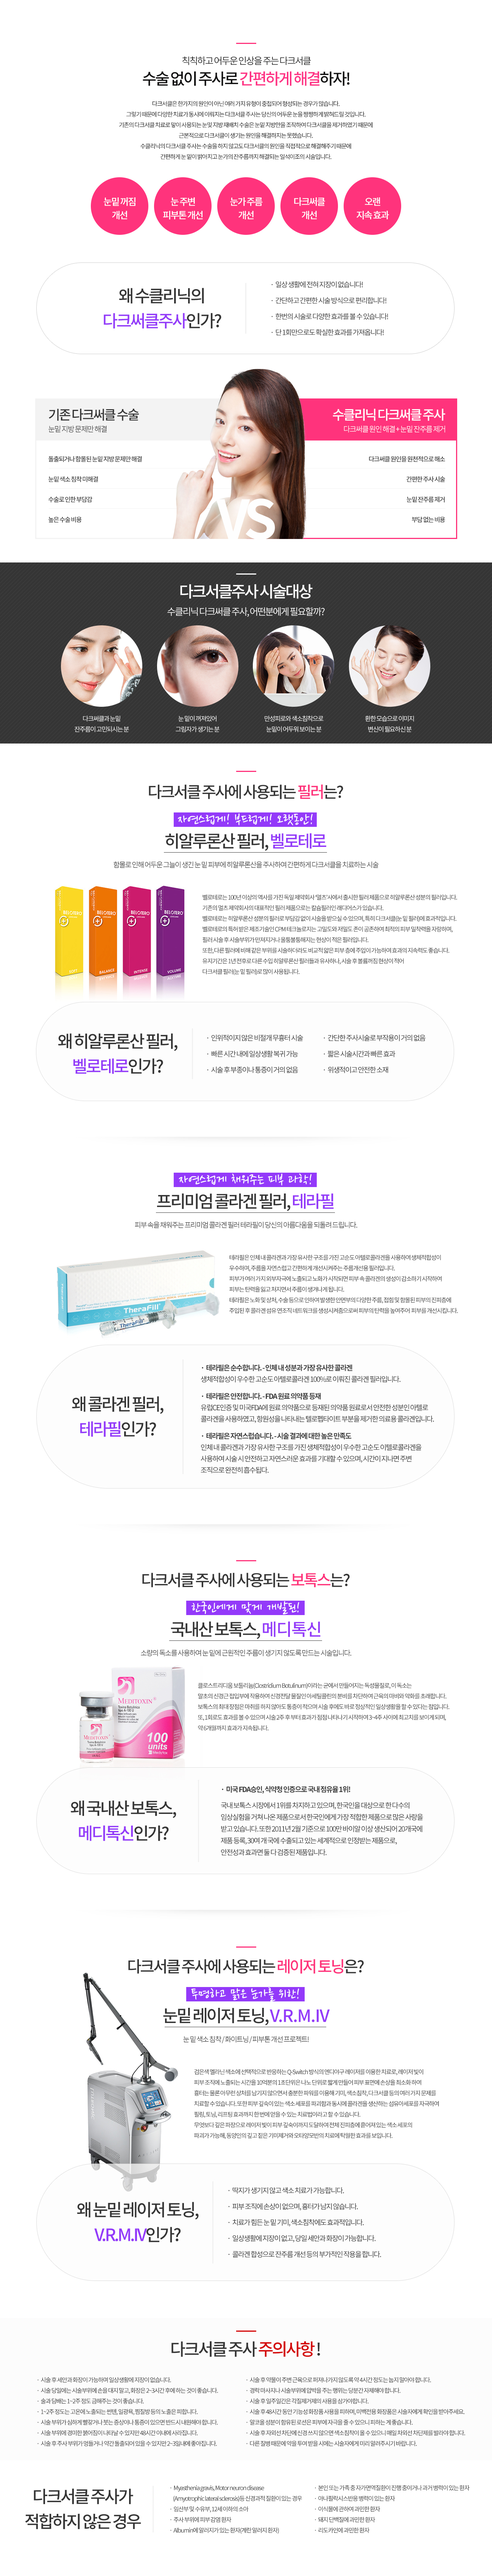
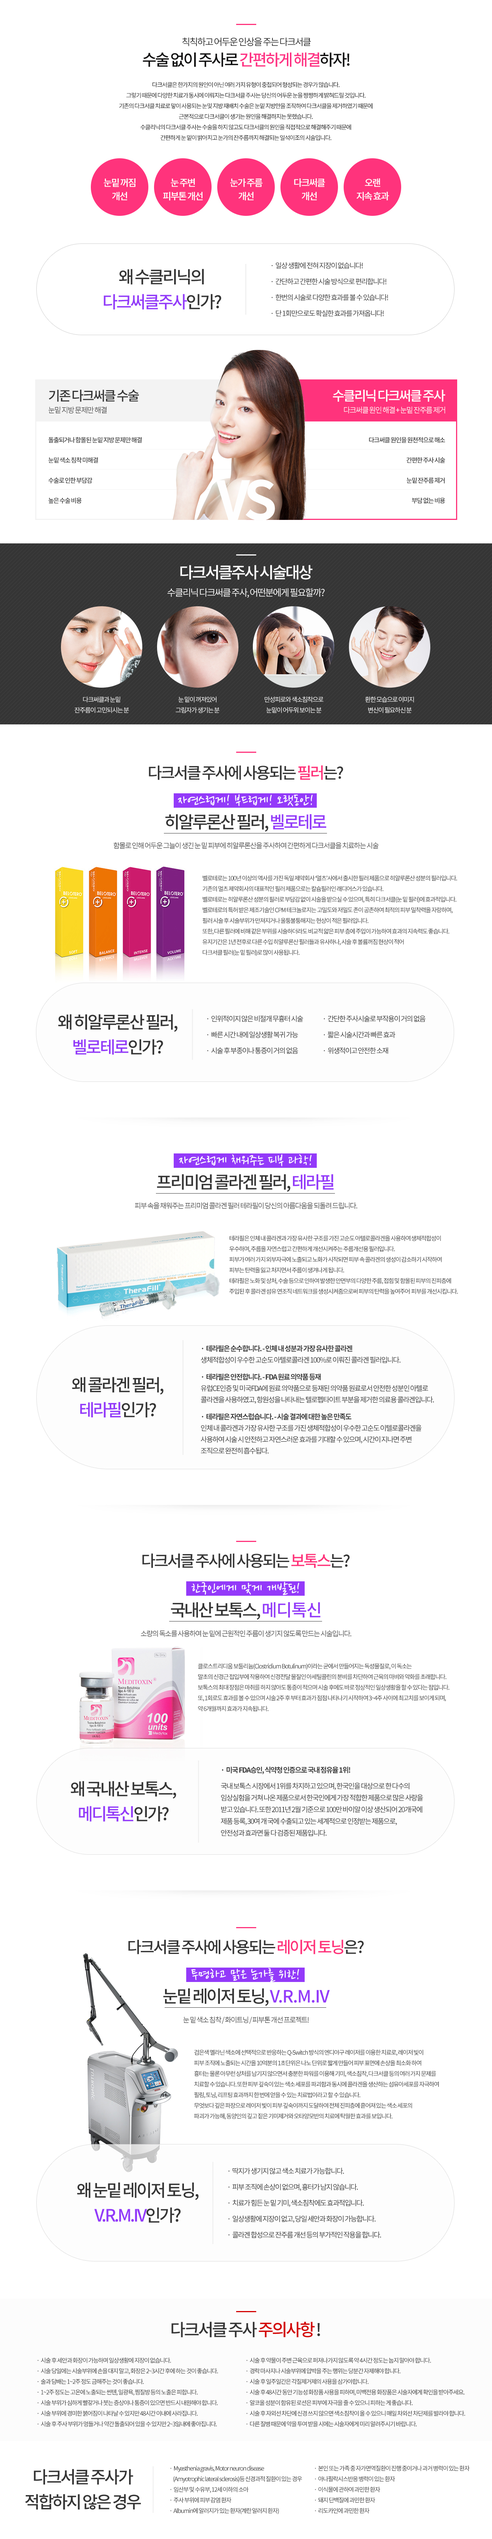
병원 둘러보기 페이지 추가

Changed region(s): [[0.0, 0.0, 1.0, 0.9975], [0.1846, 0.4987, 0.3077, 0.5611], [0.6769, 0.4052, 0.8, 0.4364]]

diff --git a/main/templates/intro/map.html b/main/templates/intro/map.html
@@ -6,15 +6,15 @@
 {% endblock %}
 
 {% block sub_title %}
-HOME > 병원 소개 > 오시는 길
+HOME > 병원소개 > 오시는 길
 {% endblock %}
 
 {% block main %}
-	<img src="{% static 'img/map/title.jpg' %}" class="img-responsive content-border1 paddingtop60">
+	<img src="{% static 'img/intro/map1.jpg' %}" class="img-responsive content-border1 paddingtop60">
 {% endblock %}
 
 {% block mainsm %}
-	<img src="{% static 'img/map/subtitle.jpg' %}" class="img-responsive content-border1 paddingtop30-xs">
+	<img src="{% static 'img/intro/map1s.jpg' %}" class="img-responsive content-border1 paddingtop30-xs">
 {% endblock %}
 
 {% block common %}
@@ -22,11 +22,11 @@ HOME > 병원 소개 > 오시는 길
 {% endblock %}
 
 {% block detail %}
-	<img src="{% static 'img/map/big.jpeg' %}" class="img-responsive content-border2">
+	<img src="{% static 'img/intro/map2.jpeg' %}" class="img-responsive content-border2">
 {% endblock %}
 
 {% block detailsm %}
-	<img src="{% static 'img/map/sm.jpeg' %}" class="img-responsive content-border2 paddingtop20-xs" style="margin: 10px;">
+	<img src="{% static 'img/intro/map2s.jpeg' %}" class="img-responsive content-border2 paddingtop20-xs" style="margin: 10px;">
 {% endblock %}
 
 
@@ -60,5 +60,6 @@ HOME > 병원 소개 > 오시는 길
 	  // 스크롤로 지도 확대/축소를 불가능하게 막습니다.
 	  map.setZoomable(false);
 	  map.setDraggable(false);
+	  activelist('#intro4', '#intro')
 	</script>
 	{% endblock javascript %}

diff --git a/main/templates/intro/clinic.html b/main/templates/intro/clinic.html
@@ -1,0 +1,35 @@
+{% extends "../detailpage.html" %}
+{% load staticfiles %}
+
+{% block semi_title %}
+병원 둘러보기
+{% endblock %}
+
+{% block sub_title %}
+HOME > 병원소개 > 병원 둘러보기
+{% endblock %}
+
+{% block main %}
+	<img src="{% static 'img/intro/clinic1.jpg' %}" class="img-responsive content-border1 paddingtop60">
+{% endblock %}
+
+{% block mainsm %}
+	<img src="{% static 'img/intro/clinic1s.jpg' %}" class="img-responsive content-border1 paddingtop30-xs">
+{% endblock %}
+
+
+{% block detail %}
+	<img src="{% static 'img/intro/clinic2.jpg' %}" class="img-responsive content-border2 paddingtop60">
+{% endblock %}
+
+{% block detailsm %}
+	<img src="{% static 'img/intro/clinic2.jpg' %}" class="img-responsive content-border2 paddingtop20-xs">
+{% endblock %}
+
+{% block javascript %}
+<script type="text/javascript">
+	$(document).ready(function(){
+		activelist('#intro3', '#intro')
+	});
+</script>
+{% endblock javascript %}

diff --git a/suclinic/templates/left.navbar.1.html b/suclinic/templates/left.navbar.1.html
@@ -27,9 +27,9 @@
 				<a href="#">병원소개<span class="caret"></span></a>
 			</li>
 			<ul class="sub-menu collapse" id="intro">
-				<li id="intro1">수클리닉 소개</li>
-				<li id="intro2">의료진 소개</li>
-				<li id="intro3">병원 둘러보기</li>
+				<li id="intro1"><a href="{% url 'main:intro' %}">수클리닉 소개</a></li>
+				<li id="intro2"><a href="{% url 'main:doctor' %}">의료진 소개</a></li>
+				<li id="intro3"><a href="{% url 'main:clinic' %}">병원 둘러보기</a></li>
 				<li id="intro4"><a href="{% url 'main:map' %}">오시는 길</a></li>
 			</ul>
 

diff --git a/static/css/style.css b/static/css/style.css
@@ -156,7 +156,10 @@ body {
     margin-top: 10px;
     padding-left: 0; } }
 #menu-content > li > a {
-  font-size: 11pt; }
+  font-size: 11pt;
+  font-weight: 400; }
+#menu-content ul a {
+  font-weight: 300; }
 
 @media screen and (max-width: 991px) {
   .left-navbar {

diff --git a/static/scss/_sidebar1.scss b/static/scss/_sidebar1.scss
@@ -186,7 +186,11 @@ body {
 	> li {
 		> a {
 			font-size: 11pt;
+			font-weight: 400;
 		}
+	}
+	ul a {
+		font-weight:300;
 	}
 }
 

diff --git a/main/templates/intro/intro.html b/main/templates/intro/intro.html
@@ -1,0 +1,3 @@
+{% extends "../detailpage.html" %}
+{% load staticfiles %}
+

diff --git a/main/templates/intro/doctor.html b/main/templates/intro/doctor.html
@@ -1,0 +1,2 @@
+{% extends "../detailpage.html" %}
+{% load staticfiles %}

diff --git a/main/urls.py b/main/urls.py
@@ -2,6 +2,11 @@ from django.conf.urls import url
 from . import views
 
 urlpatterns = [
+    url(r'^intro/$', views.intro, name="intro"),
+    url(r'^doctor/$', views.doctor, name="doctor"),
+    url(r'^clinic/$', views.clinic, name="clinic"),
+    url(r'^map/$', views.map, name="map"),
+
     # whitening #
     url(r'^whitening/$', views.whitening, name="whitening"),
     url(r'^laser/$', views.laser, name="laser"),
@@ -48,8 +53,6 @@ urlpatterns = [
     url(r'^lipolysis/$', views.lipolysis, name="lipolysis"),
     url(r'^mesotherapie/$', views.mesotherapie, name="mesotherapie"),
     url(r'^slim/$', views.slim, name="slim"),
-
-    url(r'^map/$', views.map, name="map"),
 
     url(r'^$', views.main, name="main"),
 ]

diff --git a/main/views.py b/main/views.py
@@ -3,6 +3,18 @@ from django.shortcuts import render
 def main(request):
     return render(request, "main.html")
 
+def intro(request):
+    return render(request, "intro/intro.html")
+
+def clinic(request):
+    return render(request, "intro/clinic.html")
+
+def doctor(request):
+    return render(request, "intro/doctor.html")
+
+def map(request):
+    return render(request, "intro/map.html", {'map': True})
+
 # whitening #
 def whitening(request):
     return render(request, "whitening/whitening.html")
@@ -104,6 +116,4 @@ def mesotherapie(request):
 def slim(request):
     return render(request, "obesity/slim.html")
 
-def map(request):
-    return render(request, "map.html", {'map': True})
 
